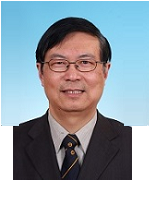
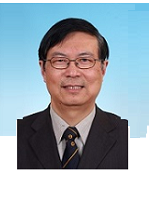
图像

Changed region(s): [[0.0, 0.0, 1.0, 0.9045]]

diff --git a/css/nasac_fmac.css b/css/nasac_fmac.css
@@ -612,7 +612,7 @@ top:0
 }
 
 .photo1{
-	background-image:url(../images/photo/11.png)
+	background-image:url(../images/photo/11.jpg)
 }
 
 .photo2{
